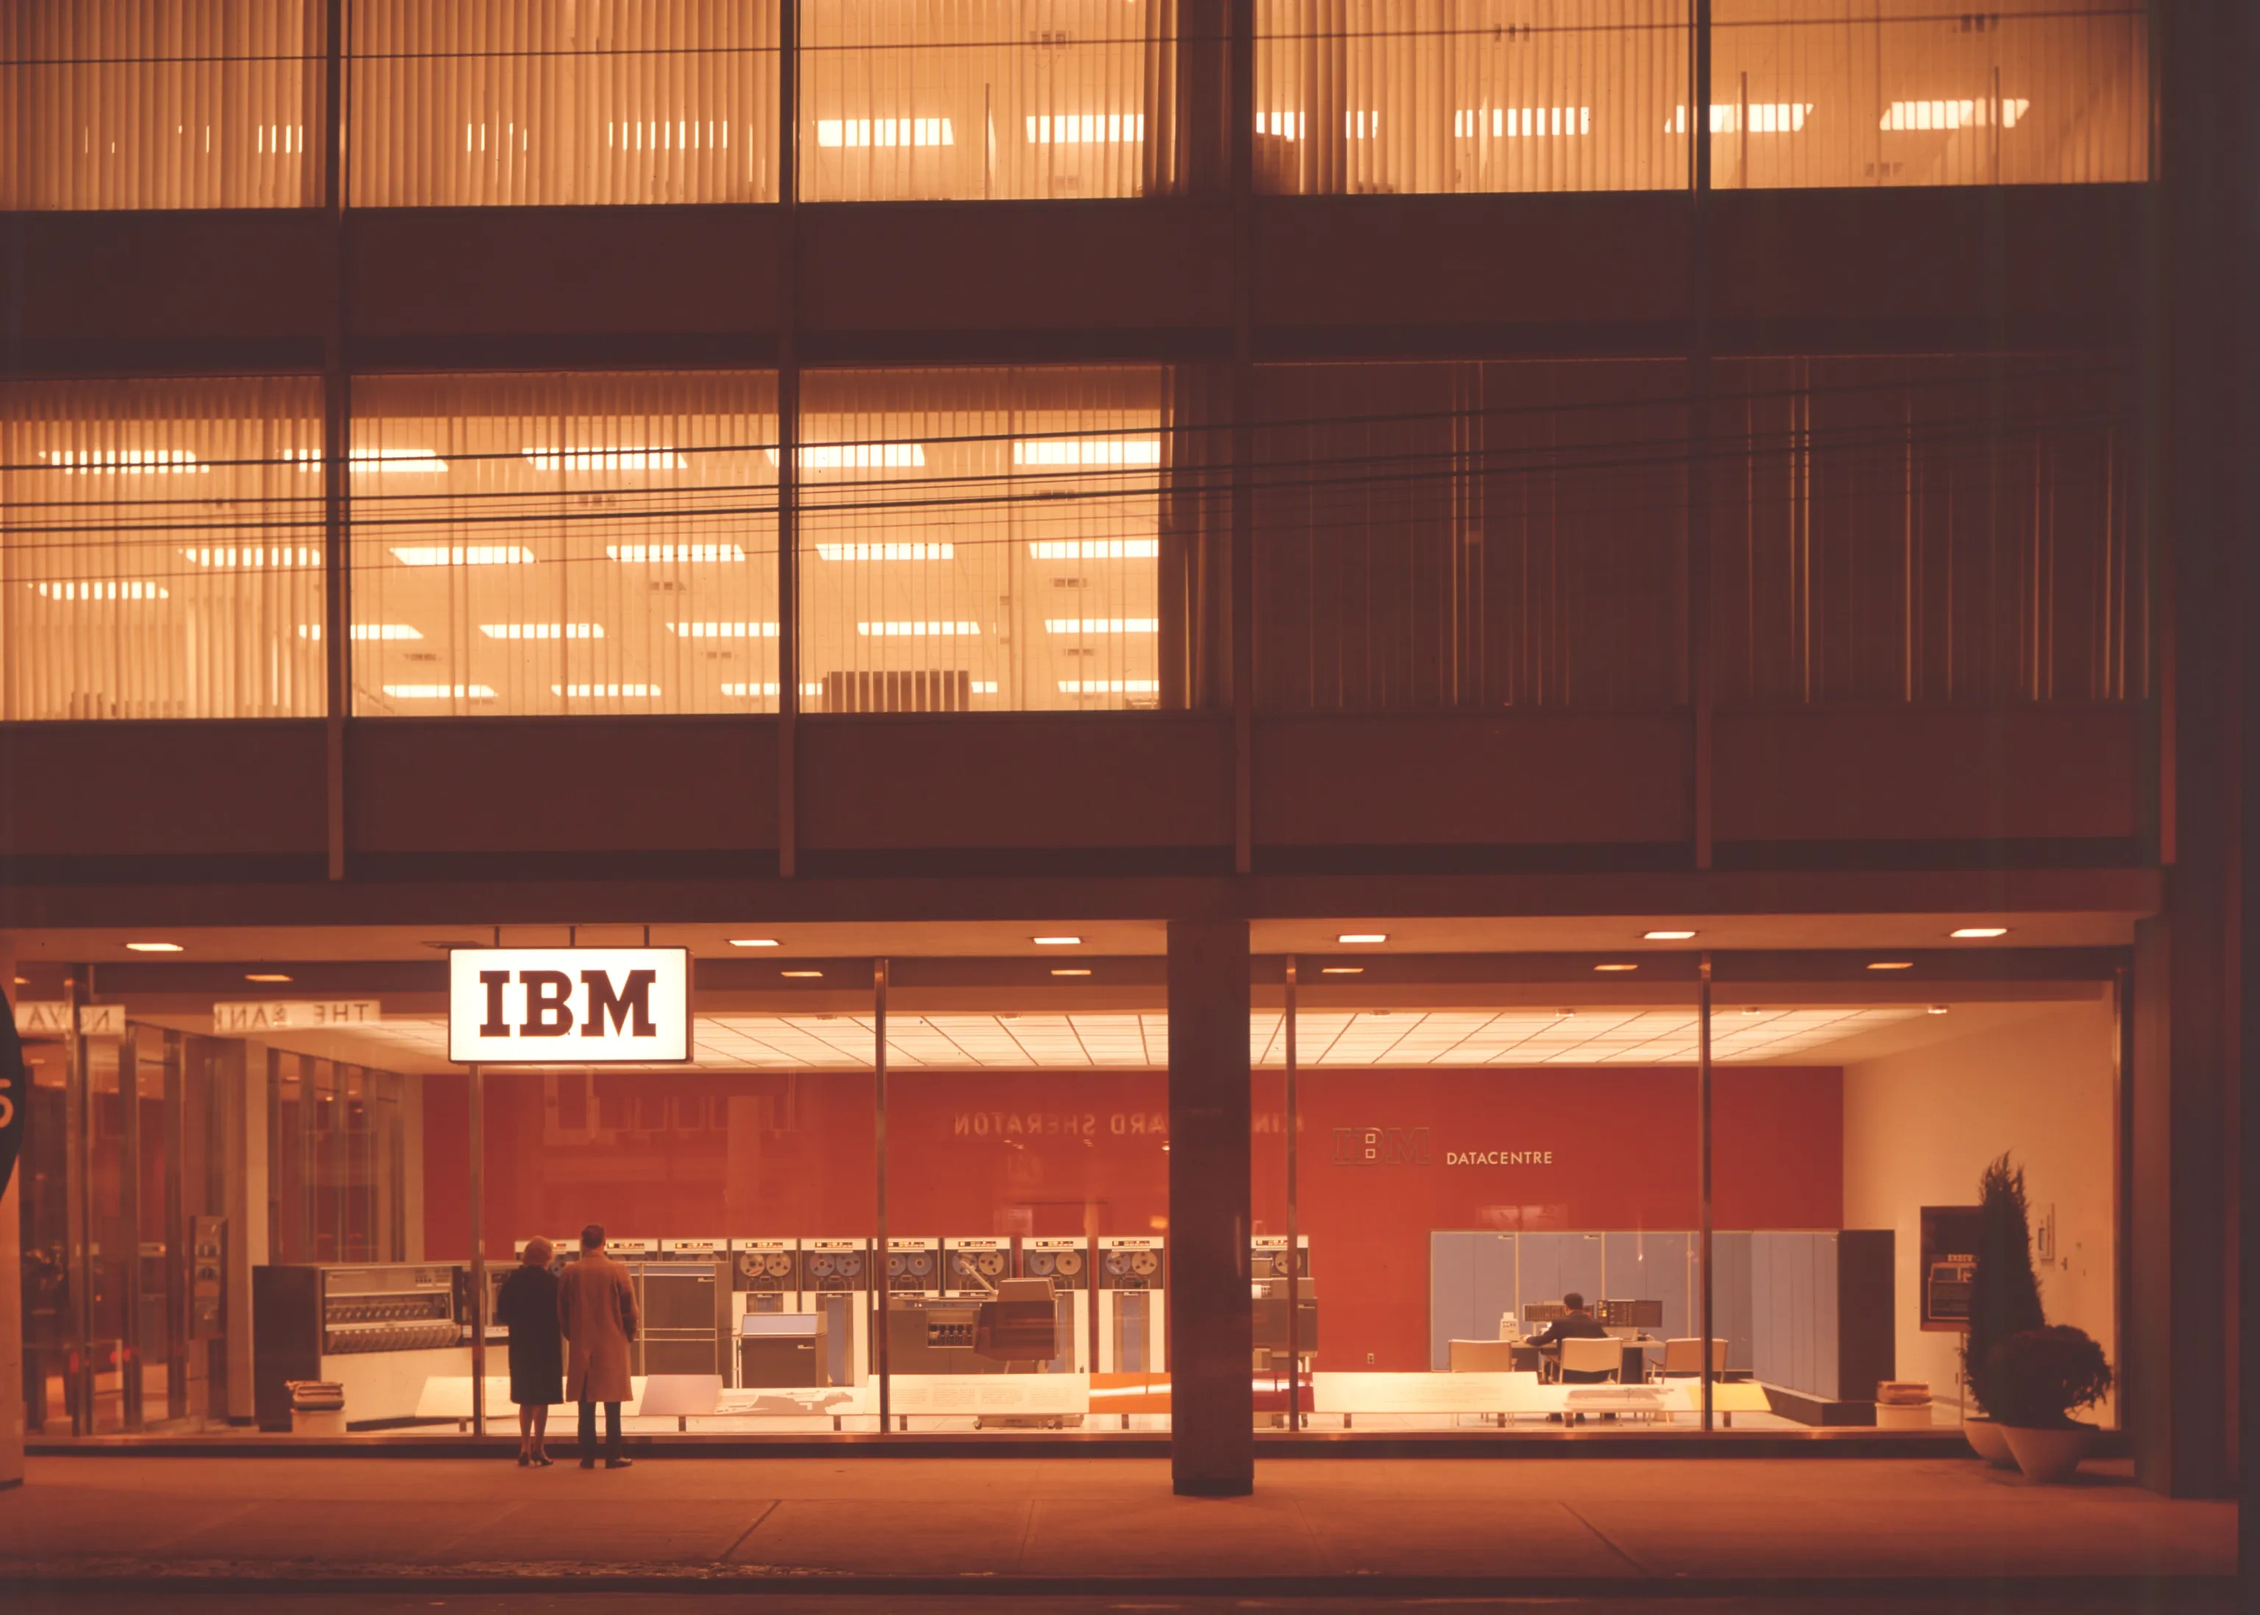
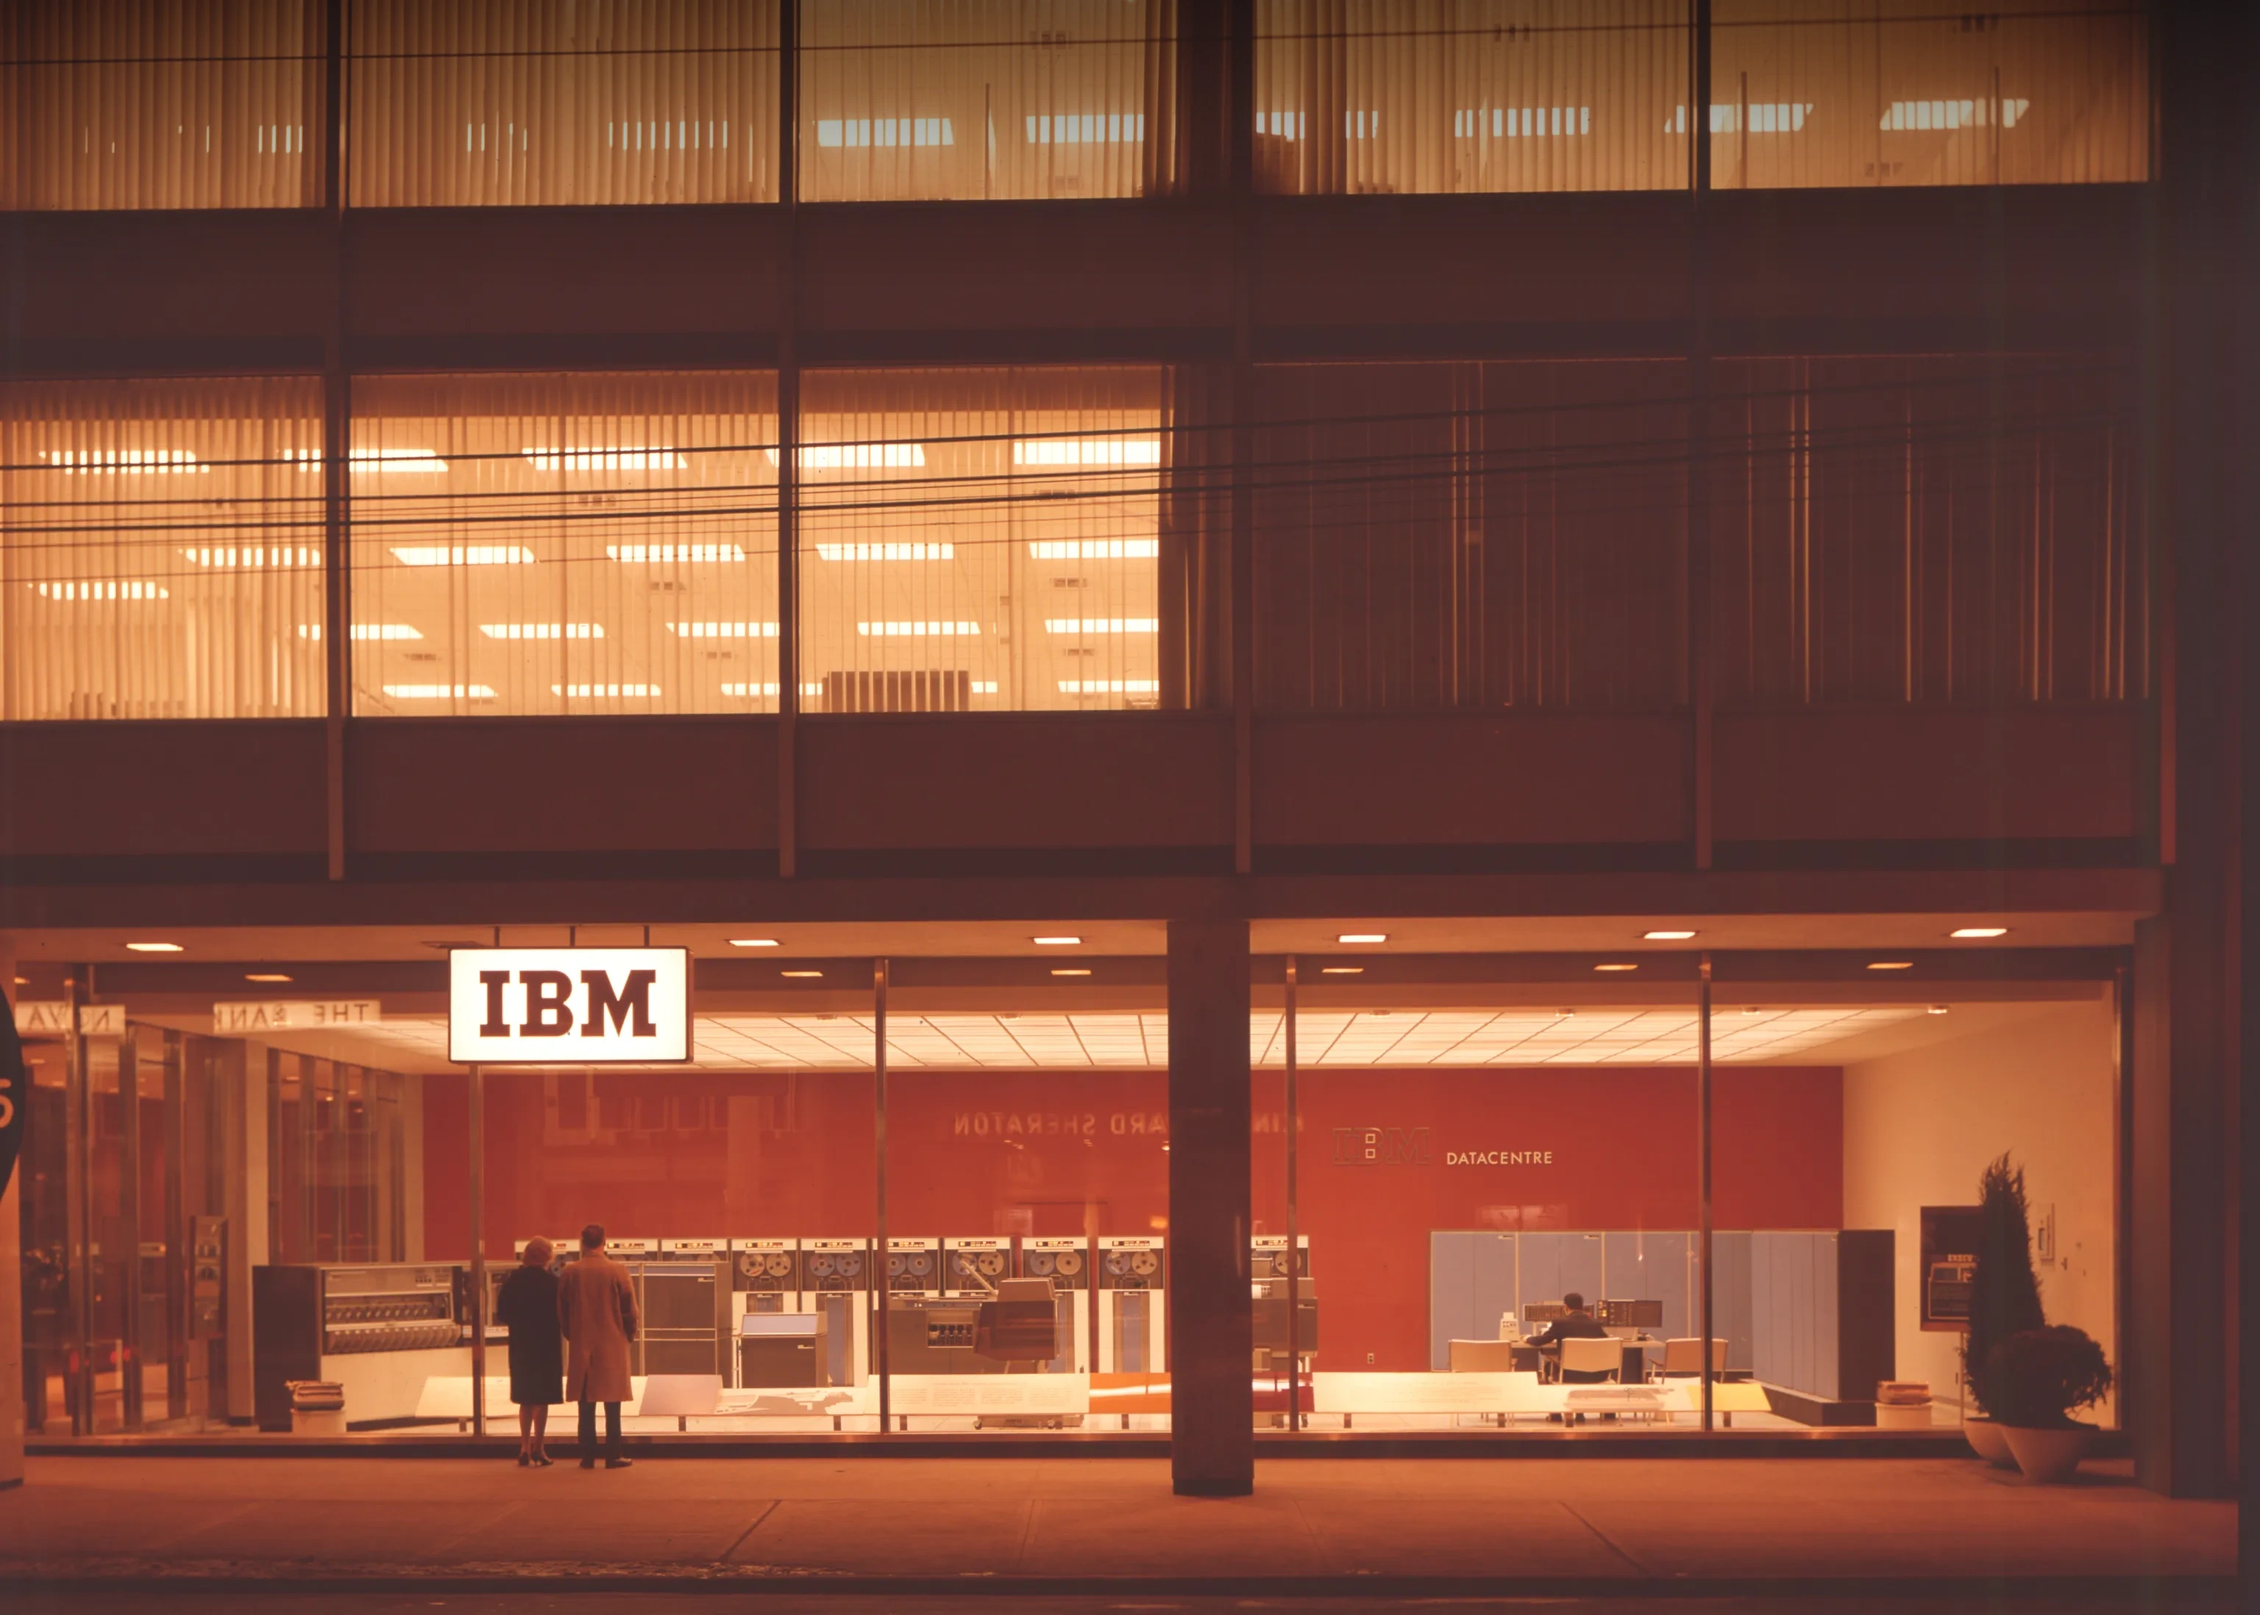
Keep the bar text light over the colour background
With a transparent bar, omarchy-bar-text-color samples the wallpaper strip
behind the bar and emits whichever of Color.bar.text or Color.background has the
higher WCAG contrast against it (Bar.qml:1064-1069). The colour photograph's
tobacco facade sits exactly there, and it measured luminance 0.23 against the
0.17 a light colour needs to win -- so the bar text was flipping dark.

No palette change can fix that. The dark candidate is hardcoded to
Color.background, and at strip luminance 0.23 even pure white scores 3.74
against this theme's background at 4.38. The strip itself has to come down.

So 01-kingst-datacentre.webp now carries a gradient dimming the top 18%,
strongest at the very top and fading to nothing, which reads as vignetting
rather than a band. The sampled strip lands at luminance 0.14 and light text
wins at every combination checked -- 3840x2160, 2560x1440, 1920x1200 and
1920x1440, each at bar sizes 28, 36, 48 and 64, sixteen in all, worst case 3.98
against 2.96.

A soft gradient rather than a hard band because the sampled region moves with
screen aspect and bar height: resize-to-fill crops a different part of the image
on each, and a taller bar averages further down. 18% covers every case above
with margin.

02-kingst-datacentre-1963.webp is untouched -- its strip is already #414141 and
light text wins there 7.29 to 1.63.

The credits line said the photographs were reproduced unmodified apart from
[…]

Changed region(s): [[0.0, 0.0, 1.0, 0.1548]]

diff --git a/README.md b/README.md
@@ -29,10 +29,26 @@ the British way.
 - backgrounds/01-kingst-datacentre.webp (colour)
 - backgrounds/02-kingst-datacentre-1963.webp (1963, black and white) — cycle with `omarchy theme bg next`
 
+## Bar legibility
+
+With a transparent bar, Omarchy samples the wallpaper strip behind the bar and picks whichever
+of `bar.text` or `background` has the higher WCAG contrast against it — so over a bright strip
+it flips the bar text to the dark colour. The colour photograph's tobacco facade sits exactly
+there and measured luminance 0.23, where anything below 0.17 is needed for light text to win;
+at 0.23 even pure white (3.74) loses to this theme's `background` (4.38), so no palette change
+can fix it.
+
+`01-kingst-datacentre.webp` therefore carries a gradient dimming the top 18%, strongest at the
+very top and fading to nothing. The sampled strip lands at luminance 0.14, and light text wins
+at every screen size and bar height checked (3840x2160, 2560x1440, 1920x1200, 1920x1440 at bar
+28/36/48/64 — worst case 3.98 against 2.96). The 1963 photograph needed nothing: its strip is
+already #414141 and light text wins there 7.29 to 1.63.
+
 ## Image credits
 
 Both backgrounds are photographs of the IBM Datacentre on King Street, Toronto, the second
-dated 1963. They are reproduced unmodified apart from format conversion, and they are **not
+dated 1963. They are reproduced apart from format conversion and, on the colour one, a soft gradient
+dimming of the top 18% (see "Bar legibility" below), and they are **not
 owned by the author of this theme** — all rights remain with the original copyright holder.
 These images appear on many sites without consistent attribution and the original source could
 not be established; if you are the rights holder, or know who is, please open an issue and it
